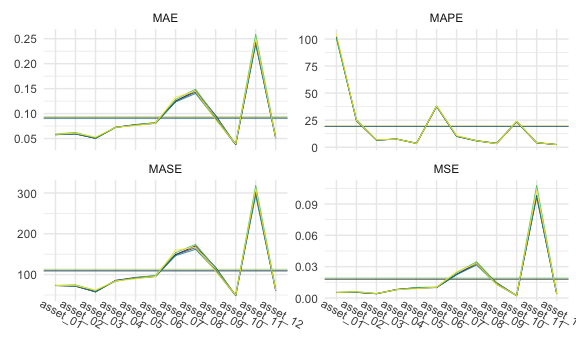
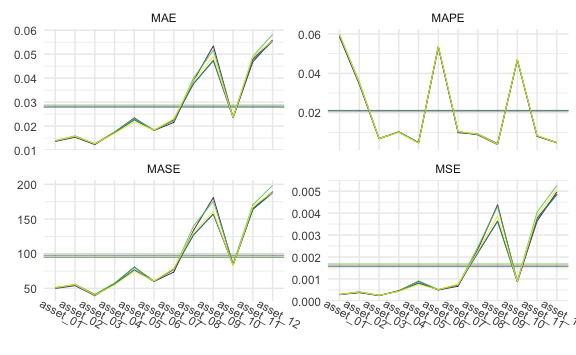
parallelize empirical bayes optimization

diff --git a/docs/model-dgp01.md b/docs/model-dgp01.md
@@ -1,7 +1,7 @@
 Simulating Minnesota VAR
 ================
 Young Geun Kim
-02 Jan, 2022
+04 Jan, 2022
 
 -   [BVAR Coefficient](#bvar-coefficient)
     -   [Minnesota prior](#minnesota-prior)
@@ -39,6 +39,8 @@ Young Geun Kim
 library(tidyverse)
 # BVHAR custom package-----------------
 library(bvhar)
+# Set the number of processor cores----
+cl <- parallel::makeCluster(8, type = "FORK")
 # set seed for reproducible result-----
 set.seed(1)
 ```
@@ -231,7 +233,8 @@ fit_vhar_large <- vhar_lm(y_large_train, include_mean = FALSE)
   ), 
   y = y_small_train, 
   p = bvar_lag, 
-  include_mean = FALSE
+  include_mean = FALSE,
+  parallel = list(cl = cl, forward = FALSE, loginfo = FALSE)
 ))
 #> Model Specification for BVAR
 #> 
@@ -268,7 +271,8 @@ fit_vhar_large <- vhar_lm(y_large_train, include_mean = FALSE)
   ), 
   y = y_medium_train, 
   p = bvar_lag, 
-  include_mean = FALSE
+  include_mean = FALSE,
+  parallel = list(cl = cl, forward = FALSE, loginfo = FALSE)
 ))
 #> Model Specification for BVAR
 #> 
@@ -278,13 +282,13 @@ fit_vhar_large <- vhar_lm(y_large_train, include_mean = FALSE)
 #> ========================================================
 #> 
 #> Setting for 'sigma':
-#> [1]  0.0380  0.0418  0.0454  0.0627  0.0676  0.0296  0.0679  0.1182  0.1057
+#> [1]  0.0379  0.0420  0.0459  0.0635  0.0690  0.0310  0.0693  0.1225  0.1098
 #> 
 #> Setting for 'lambda':
-#> [1]  0.202
+#> [1]  0.209
 #> 
 #> Setting for 'delta':
-#> [1]  0.0960  0.0100  0.0734  0.0100  0.0100  0.0228  0.0700  0.0100  0.0259
+#> [1]  0.0804  0.0100  0.0656  0.0100  0.0100  0.0339  0.0611  0.0100  0.0319
 #> 
 #> Setting for 'eps':
 #> [1]  1e-04
@@ -305,7 +309,8 @@ fit_vhar_large <- vhar_lm(y_large_train, include_mean = FALSE)
   ), 
   y = y_large_train, 
   p = bvar_lag, 
-  include_mean = FALSE
+  include_mean = FALSE,
+  parallel = list(cl = cl, forward = FALSE, loginfo = FALSE)
 ))
 #> Model Specification for BVAR
 #> 
@@ -315,15 +320,15 @@ fit_vhar_large <- vhar_lm(y_large_train, include_mean = FALSE)
 #> ========================================================
 #> 
 #> Setting for 'sigma':
-#>  [1]  0.0435  0.0475  0.0387  0.0594  0.0448  0.0491  0.0490  0.0651  0.0632
-#> [10]  0.0885  0.0700  0.0920
+#>  [1]  0.0455  0.0490  0.0411  0.0604  0.0479  0.0500  0.0509  0.0645  0.0619
+#> [10]  0.0866  0.0670  0.0993
 #> 
 #> Setting for 'lambda':
-#> [1]  0.128
+#> [1]  0.133
 #> 
 #> Setting for 'delta':
-#>  [1]  0.0100  0.0100  0.0100  0.0108  0.0100  0.0241  0.0100  0.0121  0.0100
-#> [10]  0.0106  0.0135  0.0124
+#>  [1]  0.0100  0.0100  0.0100  0.0109  0.0100  0.0239  0.0100  0.0119  0.0100
+#> [10]  0.0105  0.0136  0.0125
 #> 
 #> Setting for 'eps':
 #> [1]  1e-04
@@ -371,7 +376,8 @@ bvhar_var_large_spec <- set_bvhar(
     rep(1, n_small) # delta
   ), 
   y = y_small_train, 
-  include_mean = FALSE
+  include_mean = FALSE,
+  parallel = list(cl = cl, forward = FALSE, loginfo = FALSE)
 ))
 #> Model Specification for BVHAR
 #> 
@@ -381,13 +387,13 @@ bvhar_var_large_spec <- set_bvhar(
 #> ========================================================
 #> 
 #> Setting for 'sigma':
-#> [1]  0.0619  0.0311  0.0811
+#> [1]  0.0872  0.0293  0.0734
 #> 
 #> Setting for 'lambda':
-#> [1]  1.5
+#> [1]  1.4
 #> 
 #> Setting for 'delta':
-#> [1]  0.0117  0.0109  0.0116
+#> [1]  0.0115  0.0111  0.0116
 #> 
 #> Setting for 'eps':
 #> [1]  1e-04
@@ -407,7 +413,8 @@ bvhar_var_large_spec <- set_bvhar(
     rep(1, n_medium) # delta
   ), 
   y = y_medium_train, 
-  include_mean = FALSE
+  include_mean = FALSE,
+  parallel = list(cl = cl, forward = FALSE, loginfo = FALSE)
 ))
 #> Model Specification for BVHAR
 #> 
@@ -417,13 +424,13 @@ bvhar_var_large_spec <- set_bvhar(
 #> ========================================================
 #> 
 #> Setting for 'sigma':
-#> [1]  0.0430  0.0421  0.0622  0.0602  0.0596  0.0100  0.0745  0.1259  0.1053
+#> [1]  0.0526  0.0553  0.0703  0.0706  0.0958  0.0539  0.1041  0.1919  0.1461
 #> 
 #> Setting for 'lambda':
-#> [1]  0.206
+#> [1]  0.891
 #> 
 #> Setting for 'delta':
-#> [1]  0.0293  0.0100  0.0286  0.0100  0.0100  0.0100  0.0282  0.0100  0.0257
+#> [1]  0.0222  0.0100  0.0261  0.0100  0.0100  0.0100  0.0278  0.0100  0.0201
 #> 
 #> Setting for 'eps':
 #> [1]  1e-04
@@ -443,7 +450,8 @@ bvhar_var_large_spec <- set_bvhar(
     rep(1, n_large) # delta
   ), 
   y = y_large_train, 
-  include_mean = FALSE
+  include_mean = FALSE,
+  parallel = list(cl = cl, forward = FALSE, loginfo = FALSE)
 ))
 #> Model Specification for BVHAR
 #> 
@@ -453,14 +461,14 @@ bvhar_var_large_spec <- set_bvhar(
 #> ========================================================
 #> 
 #> Setting for 'sigma':
-#>  [1]  0.0782  0.0367  0.0402  0.0513  0.0497  0.0531  0.0614  0.0464  0.0410
-#> [10]  0.0504  0.0394  0.0562
+#>  [1]  0.0500  0.0500  0.0500  0.0501  0.0500  0.0500  0.0500  0.0500  0.0500
+#> [10]  0.0501  0.0500  0.0500
 #> 
 #> Setting for 'lambda':
-#> [1]  0.948
+#> [1]  1.03
 #> 
 #> Setting for 'delta':
-#>  [1]  0.0101  0.0100  0.0100  0.0101  0.0100  0.0101  0.0101  0.0100  0.0100
+#>  [1]  0.0101  0.0100  0.0100  0.0101  0.0100  0.0101  0.0101  0.0101  0.0100
 #> [10]  0.0100  0.0101  0.0101
 #> 
 #> Setting for 'eps':
@@ -519,7 +527,8 @@ bvhar_vhar_large_spec <- set_weight_bvhar(
     rep(1, n_small) # monthly
   ), 
   y = y_small_train, 
-  include_mean = FALSE
+  include_mean = FALSE,
+  parallel = list(cl = cl, forward = FALSE, loginfo = FALSE)
 ))
 #> Model Specification for BVHAR
 #> 
@@ -529,22 +538,22 @@ bvhar_vhar_large_spec <- set_weight_bvhar(
 #> ========================================================
 #> 
 #> Setting for 'sigma':
-#> [1]  0.0766  0.0161  0.0835
+#> [1]  0.0792  0.0217  0.0815
 #> 
 #> Setting for 'lambda':
-#> [1]  0.966
+#> [1]  0.984
 #> 
 #> Setting for 'eps':
 #> [1]  1e-04
 #> 
 #> Setting for 'daily':
-#> [1]  0.0112  0.0113  0.0111
+#> [1]  0.0112  0.0112  0.0111
 #> 
 #> Setting for 'weekly':
-#> [1]  0.0112  0.0116  0.0111
+#> [1]  0.0112  0.0114  0.0111
 #> 
 #> Setting for 'monthly':
-#> [1]  0.0106  0.0137  0.0113
+#> [1]  0.0106  0.0135  0.0113
 ```
 
 ``` r
@@ -565,7 +574,8 @@ bvhar_vhar_large_spec <- set_weight_bvhar(
     rep(1, n_medium) # monthly
   ), 
   y = y_medium_train, 
-  include_mean = FALSE
+  include_mean = FALSE,
+  parallel = list(cl = cl, forward = FALSE, loginfo = FALSE)
 ))
 #> Model Specification for BVHAR
 #> 
@@ -575,22 +585,22 @@ bvhar_vhar_large_spec <- set_weight_bvhar(
 #> ========================================================
 #> 
 #> Setting for 'sigma':
-#> [1]  0.0459  0.0489  0.0570  0.0611  0.0831  0.0155  0.0900  0.1453  0.1160
+#> [1]  0.0524  0.0514  0.0644  0.0801  0.0829  0.0447  0.0932  0.1943  0.1622
 #> 
 #> Setting for 'lambda':
-#> [1]  0.32
+#> [1]  0.8
 #> 
 #> Setting for 'eps':
 #> [1]  1e-04
 #> 
 #> Setting for 'daily':
-#> [1]  0.0144  0.0100  0.0136  0.0100  0.0100  0.0109  0.0123  0.0100  0.0107
+#> [1]  0.0129  0.0100  0.0125  0.0100  0.0100  0.0105  0.0112  0.0100  0.0105
 #> 
 #> Setting for 'weekly':
-#> [1]  0.0174  0.0124  0.0126  0.0100  0.0100  0.0157  0.0127  0.0108  0.0100
+#> [1]  0.0147  0.0117  0.0118  0.0100  0.0100  0.0154  0.0116  0.0107  0.0100
 #> 
 #> Setting for 'monthly':
-#> [1]  0.0124  0.0103  0.0143  0.0100  0.0100  0.0202  0.0100  0.0100  0.0100
+#> [1]  0.0120  0.0104  0.0132  0.0100  0.0104  0.0189  0.0100  0.0100  0.0100
 ```
 
 ``` r
@@ -611,7 +621,8 @@ bvhar_vhar_large_spec <- set_weight_bvhar(
     rep(1, n_large) # monthly
   ), 
   y = y_large_train, 
-  include_mean = FALSE
+  include_mean = FALSE,
+  parallel = list(cl = cl, forward = FALSE, loginfo = FALSE)
 ))
 #> Model Specification for BVHAR
 #> 
@@ -621,32 +632,36 @@ bvhar_vhar_large_spec <- set_weight_bvhar(
 #> ========================================================
 #> 
 #> Setting for 'sigma':
-#>  [1]  0.0503  0.0839  0.0667  0.0784  0.0867  0.1055  0.0646  0.0838  0.0710
-#> [10]  0.0524  0.0729  0.0677
+#>  [1]  0.0514  0.0527  0.0479  0.0479  0.0506  0.0716  0.0504  0.0458  0.0518
+#> [10]  0.0546  0.0555  0.0523
 #> 
 #> Setting for 'lambda':
-#> [1]  1.02
+#> [1]  1.04
 #> 
 #> Setting for 'eps':
 #> [1]  1e-04
 #> 
 #> Setting for 'daily':
-#>  [1]  0.0101  0.0100  0.0100  0.0101  0.0100  0.0161  0.0101  0.0101  0.0100
-#> [10]  0.0100  0.0101  0.0103
+#>  [1]  0.0101  0.0100  0.0100  0.0101  0.0100  0.0101  0.0101  0.0101  0.0100
+#> [10]  0.0100  0.0101  0.0101
 #> 
 #> Setting for 'weekly':
-#>  [1]  0.0101  0.0100  0.0206  0.0286  0.0101  0.0100  0.0243  0.0101  0.0101
-#> [10]  0.0148  0.0101  0.0101
+#>  [1]  0.0101  0.0100  0.0101  0.0100  0.0101  0.0100  0.0101  0.0101  0.0101
+#> [10]  0.0101  0.0101  0.0101
 #> 
 #> Setting for 'monthly':
-#>  [1]  0.0101  0.0171  0.0101  0.0170  0.0101  0.0141  0.0287  0.0275  0.0138
-#> [10]  0.0100  0.0264  0.0101
+#>  [1]  0.0101  0.0100  0.0101  0.0100  0.0101  0.0100  0.0101  0.0101  0.0101
+#> [10]  0.0100  0.0101  0.0101
 ```
 
 ``` r
 fit_bvhar_small_vhar <- bvhar_vhar_small_optim$fit
 fit_bvhar_medium_vhar <- bvhar_vhar_medium_optim$fit
 fit_bvhar_large_vhar <- bvhar_vhar_large_optim$fit
+```
+
+``` r
+parallel::stopCluster(cl)
 ```
 
 # Errors
@@ -677,69 +692,69 @@ fit_bvhar_large_vhar <- bvhar_vhar_large_optim$fit
 
     \hspace{1em} &  & $\delta$ & 0.034 & 0.064 & 0.040 &  &  &  &  &  &  &  &  & \\
     \cmidrule{2-15}
-    \hspace{1em} & BVHAR-S & $\sigma$ & 0.062 & 0.031 & 0.081 &  &  &  &  &  &  &  &  & \\
+    \hspace{1em} & BVHAR-S & $\sigma$ & 0.087 & 0.029 & 0.073 &  &  &  &  &  &  &  &  & \\
 
-    \hspace{1em} &  & $\lambda$ & 1.500 &  &  &  &  &  &  &  &  &  &  & \\
+    \hspace{1em} &  & $\lambda$ & 1.397 &  &  &  &  &  &  &  &  &  &  & \\
 
     \hspace{1em} &  & $\delta$ & 0.012 & 0.011 & 0.012 &  &  &  &  &  &  &  &  & \\
     \cmidrule{2-15}
-    \hspace{1em} & BVHAR-L & $\sigma$ & 0.077 & 0.016 & 0.083 &  &  &  &  &  &  &  &  & \\
+    \hspace{1em} & BVHAR-L & $\sigma$ & 0.079 & 0.022 & 0.082 &  &  &  &  &  &  &  &  & \\
 
-    \hspace{1em} &  & $\lambda$ & 0.966 &  &  &  &  &  &  &  &  &  &  & \\
+    \hspace{1em} &  & $\lambda$ & 0.984 &  &  &  &  &  &  &  &  &  &  & \\
 
     \hspace{1em} &  & $d_i$ & 0.011 & 0.011 & 0.011 &  &  &  &  &  &  &  &  & \\
 
-    \hspace{1em} &  & $w_i$ & 0.011 & 0.012 & 0.011 &  &  &  &  &  &  &  &  & \\
+    \hspace{1em} &  & $w_i$ & 0.011 & 0.011 & 0.011 &  &  &  &  &  &  &  &  & \\
 
-    \hspace{1em} &  & $m_i$ & 0.011 & 0.014 & 0.011 &  &  &  &  &  &  &  &  & \\
+    \hspace{1em} &  & $m_i$ & 0.011 & 0.013 & 0.011 &  &  &  &  &  &  &  &  & \\
     \cmidrule{1-15}
     \addlinespace[0.3em]
     \multicolumn{15}{l}{\textbf{MEDIUM}}\\
-    \hspace{1em} & BVAR & $\sigma$ & 0.038 & 0.042 & 0.045 & 0.063 & 0.068 & 0.030 & 0.068 & 0.118 & 0.106 &  &  & \\
+    \hspace{1em} & BVAR & $\sigma$ & 0.038 & 0.042 & 0.046 & 0.063 & 0.069 & 0.031 & 0.069 & 0.122 & 0.110 &  &  & \\
 
-    \hspace{1em} &  & $\lambda$ & 0.202 &  &  &  &  &  &  &  &  &  &  & \\
+    \hspace{1em} &  & $\lambda$ & 0.209 &  &  &  &  &  &  &  &  &  &  & \\
 
-    \hspace{1em} &  & $\delta$ & 0.096 & 0.010 & 0.073 & 0.010 & 0.010 & 0.023 & 0.070 & 0.010 & 0.026 &  &  & \\
+    \hspace{1em} &  & $\delta$ & 0.080 & 0.010 & 0.066 & 0.010 & 0.010 & 0.034 & 0.061 & 0.010 & 0.032 &  &  & \\
     \cmidrule{2-15}
-    \hspace{1em} & BVHAR-S & $\sigma$ & 0.043 & 0.042 & 0.062 & 0.060 & 0.060 & 0.010 & 0.075 & 0.126 & 0.105 &  &  & \\
+    \hspace{1em} & BVHAR-S & $\sigma$ & 0.053 & 0.055 & 0.070 & 0.071 & 0.096 & 0.054 & 0.104 & 0.192 & 0.146 &  &  & \\
 
-    \hspace{1em} &  & $\lambda$ & 0.206 &  &  &  &  &  &  &  &  &  &  & \\
+    \hspace{1em} &  & $\lambda$ & 0.891 &  &  &  &  &  &  &  &  &  &  & \\
 
-    \hspace{1em} &  & $\delta$ & 0.029 & 0.010 & 0.029 & 0.010 & 0.010 & 0.010 & 0.028 & 0.010 & 0.026 &  &  & \\
+    \hspace{1em} &  & $\delta$ & 0.022 & 0.010 & 0.026 & 0.010 & 0.010 & 0.010 & 0.028 & 0.010 & 0.020 &  &  & \\
     \cmidrule{2-15}
-    \hspace{1em} & BVHAR-L & $\sigma$ & 0.046 & 0.049 & 0.057 & 0.061 & 0.083 & 0.015 & 0.090 & 0.145 & 0.116 &  &  & \\
+    \hspace{1em} & BVHAR-L & $\sigma$ & 0.052 & 0.051 & 0.064 & 0.080 & 0.083 & 0.045 & 0.093 & 0.194 & 0.162 &  &  & \\
 
-    \hspace{1em} &  & $\lambda$ & 0.320 &  &  &  &  &  &  &  &  &  &  & \\
+    \hspace{1em} &  & $\lambda$ & 0.800 &  &  &  &  &  &  &  &  &  &  & \\
 
-    \hspace{1em} &  & $d_i$ & 0.014 & 0.010 & 0.014 & 0.010 & 0.010 & 0.011 & 0.012 & 0.010 & 0.011 &  &  & \\
+    \hspace{1em} &  & $d_i$ & 0.013 & 0.010 & 0.012 & 0.010 & 0.010 & 0.011 & 0.011 & 0.010 & 0.010 &  &  & \\
 
-    \hspace{1em} &  & $w_i$ & 0.017 & 0.012 & 0.013 & 0.010 & 0.010 & 0.016 & 0.013 & 0.011 & 0.010 &  &  & \\
+    \hspace{1em} &  & $w_i$ & 0.015 & 0.012 & 0.012 & 0.010 & 0.010 & 0.015 & 0.012 & 0.011 & 0.010 &  &  & \\
 
-    \hspace{1em} &  & $m_i$ & 0.012 & 0.010 & 0.014 & 0.010 & 0.010 & 0.020 & 0.010 & 0.010 & 0.010 &  &  & \\
+    \hspace{1em} &  & $m_i$ & 0.012 & 0.010 & 0.013 & 0.010 & 0.010 & 0.019 & 0.010 & 0.010 & 0.010 &  &  & \\
     \cmidrule{1-15}
     \addlinespace[0.3em]
     \multicolumn{15}{l}{\textbf{LARGE}}\\
-    \hspace{1em} & BVAR & $\sigma$ & 0.043 & 0.048 & 0.039 & 0.059 & 0.045 & 0.049 & 0.049 & 0.065 & 0.063 & 0.089 & 0.070 & 0.092\\
+    \hspace{1em} & BVAR & $\sigma$ & 0.045 & 0.049 & 0.041 & 0.060 & 0.048 & 0.050 & 0.051 & 0.064 & 0.062 & 0.087 & 0.067 & 0.099\\
 
-    \hspace{1em} &  & $\lambda$ & 0.128 &  &  &  &  &  &  &  &  &  &  & \\
+    \hspace{1em} &  & $\lambda$ & 0.133 &  &  &  &  &  &  &  &  &  &  & \\
 
     \hspace{1em} &  & $\delta$ & 0.010 & 0.010 & 0.010 & 0.011 & 0.010 & 0.024 & 0.010 & 0.012 & 0.010 & 0.011 & 0.014 & 0.012\\
     \cmidrule{2-15}
-    \hspace{1em} & BVHAR-S & $\sigma$ & 0.078 & 0.037 & 0.040 & 0.051 & 0.050 & 0.053 & 0.061 & 0.046 & 0.041 & 0.050 & 0.039 & 0.056\\
+    \hspace{1em} & BVHAR-S & $\sigma$ & 0.050 & 0.050 & 0.050 & 0.050 & 0.050 & 0.050 & 0.050 & 0.050 & 0.050 & 0.050 & 0.050 & 0.050\\
 
-    \hspace{1em} &  & $\lambda$ & 0.948 &  &  &  &  &  &  &  &  &  &  & \\
+    \hspace{1em} &  & $\lambda$ & 1.030 &  &  &  &  &  &  &  &  &  &  & \\
 
     \hspace{1em} &  & $\delta$ & 0.010 & 0.010 & 0.010 & 0.010 & 0.010 & 0.010 & 0.010 & 0.010 & 0.010 & 0.010 & 0.010 & 0.010\\
     \cmidrule{2-15}
-    \hspace{1em} & BVHAR-L & $\sigma$ & 0.050 & 0.084 & 0.067 & 0.078 & 0.087 & 0.105 & 0.065 & 0.084 & 0.071 & 0.052 & 0.073 & 0.068\\
+    \hspace{1em} & BVHAR-L & $\sigma$ & 0.051 & 0.053 & 0.048 & 0.048 & 0.051 & 0.072 & 0.050 & 0.046 & 0.052 & 0.055 & 0.056 & 0.052\\
 
-    \hspace{1em} &  & $\lambda$ & 1.015 &  &  &  &  &  &  &  &  &  &  & \\
+    \hspace{1em} &  & $\lambda$ & 1.036 &  &  &  &  &  &  &  &  &  &  & \\
 
-    \hspace{1em} &  & $d_i$ & 0.010 & 0.010 & 0.010 & 0.010 & 0.010 & 0.016 & 0.010 & 0.010 & 0.010 & 0.010 & 0.010 & 0.010\\
+    \hspace{1em} &  & $d_i$ & 0.010 & 0.010 & 0.010 & 0.010 & 0.010 & 0.010 & 0.010 & 0.010 & 0.010 & 0.010 & 0.010 & 0.010\\
 
-    \hspace{1em} &  & $w_i$ & 0.010 & 0.010 & 0.021 & 0.029 & 0.010 & 0.010 & 0.024 & 0.010 & 0.010 & 0.015 & 0.010 & 0.010\\
+    \hspace{1em} &  & $w_i$ & 0.010 & 0.010 & 0.010 & 0.010 & 0.010 & 0.010 & 0.010 & 0.010 & 0.010 & 0.010 & 0.010 & 0.010\\
 
-    \hspace{1em} &  & $m_i$ & 0.010 & 0.017 & 0.010 & 0.017 & 0.010 & 0.014 & 0.029 & 0.027 & 0.014 & 0.010 & 0.026 & 0.010\\*
+    \hspace{1em} &  & $m_i$ & 0.010 & 0.010 & 0.010 & 0.010 & 0.010 & 0.010 & 0.010 & 0.010 & 0.010 & 0.010 & 0.010 & 0.010\\*
     \end{longtable}
 
 ## SMALL
